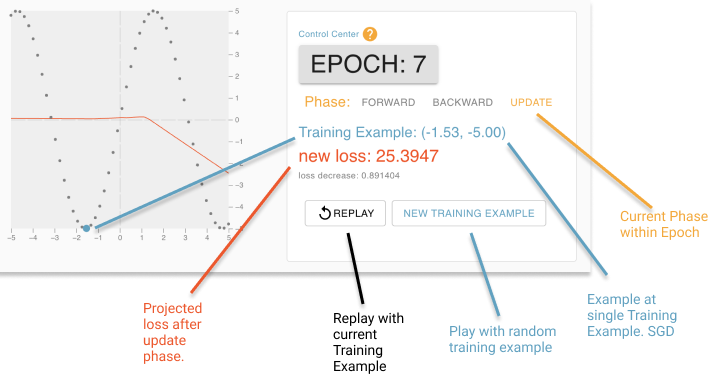
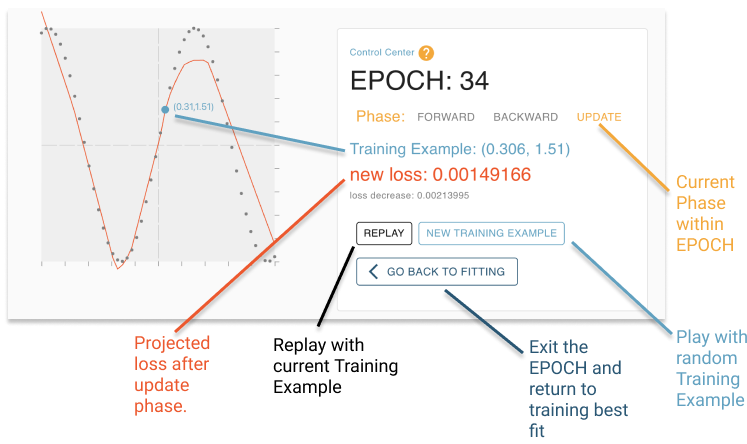
renamed to epoch tool for more accurate description and added all the changes to make the epoch animation more clear

diff --git a/src/components/implementations/mainComponent/BackpropTool.js b/src/components/implementations/mainComponent/BackpropTool.js
@@ -38,7 +38,6 @@ import {
 	Close,
 	ArrowBackIos,
 } from "@material-ui/icons";
-import controlGif from "./assets/controlcenter.gif";
 import singleSummarySVG from "./assets/singleSummary.svg";
 import epochModePNG from "./assets/epochMode.png";
 import keySVG from "./assets/key.svg";
@@ -676,8 +675,9 @@ class BackpropTool extends Component {
 							borderColor: isAnimating ? "lightgrey" : "black",
 						}}
 						variant="outlined"
+						size="small"
 					>
-						<Replay /> {"  "}REPLAY
+						REPLAY
 					</Button>
 
 					<Button
@@ -699,6 +699,7 @@ class BackpropTool extends Component {
 						}}
 						disabled={isAnimating}
 						variant="outlined"
+						size="small"
 					>
 						New Training Example
 					</Button>
@@ -844,8 +845,8 @@ class BackpropTool extends Component {
 								<Button
 									variant="outlined"
 									style={{
-										borderColor: "#ffa500",
-										color: "#ffa500",
+										color: "#175676",
+										borderColor: "#175676",
 									}}
 									onClick={async () => {
 										if (mode) {
@@ -887,7 +888,7 @@ class BackpropTool extends Component {
 									color: "#4BA3C3",
 								}}
 							>
-								{"Customization "}
+								{"Customization"}
 								<IconButton
 									size="small"
 									style={{ color: "orange" }}
@@ -1112,15 +1113,12 @@ class BackpropTool extends Component {
 					</DialogActions>
 
 					<DialogContent>
-						<img
-							src={controlGif}
-							alt="how to use control center"
-							width="100%"
-						/>
-
 						<Box display="flex" justifyContent="center">
 							<Box marginBottom={1}>
-								<Typography variant="h6">
+								<Typography variant="h5">
+									<b>Getting Stuck?</b>
+								</Typography>
+								<Typography variant="body1">
 									<ol>
 										<li>
 											Press{" "}
@@ -1130,40 +1128,58 @@ class BackpropTool extends Component {
 													color: "white",
 												}}
 												size="small"
+												disabled={true}
 											>
 												<PlayArrow fontSize="small" />
 											</Fab>{" "}
-											to start training
+											to start training and fitting the
+											curve to the data
 										</li>
 										<li>
 											Then press{" "}
 											<Button
-												variant="contained"
+												variant="outlined"
 												size="small"
+												style={{
+													borderColor: "#175676",
+													color: "#175676",
+												}}
+												disabled={true}
 											>
-												EPOCH
+												Click to animate epoch #
 											</Button>{" "}
-											to see backpropagation animation
+											to see forward propagation,{" "}
+											<b>backward propagation</b>, and
+											update animation at the epoch #.
+											While in this mode, you will have
+											access to the control center{" "}
+											<b>below</b>
+											<img
+												alt="epochMode"
+												src={epochModePNG}
+												width="100%"
+											></img>
 										</li>
 										<li>
-											To go back to fitting mode click{" "}
+											To go back to training and fitting
+											the curve to the data click{" "}
 											<Button
-												variant="contained"
+												variant="outlined"
 												size="small"
+												style={{
+													borderColor: "#175676",
+													color: "#175676",
+												}}
+												disabled={true}
 											>
-												EPOCH
+												<ArrowBackIos /> Go back to
+												fitting
 											</Button>{" "}
-											again
 										</li>
 									</ol>
 								</Typography>
 							</Box>
 						</Box>
-						<img
-							alt="epochMode"
-							src={epochModePNG}
-							width="100%"
-						></img>
 					</DialogContent>
 				</Dialog>
 				<Dialog
@@ -1187,8 +1203,14 @@ class BackpropTool extends Component {
 					<DialogContent>
 						<Box display="flex" justifyContent="center">
 							<Box marginBottom={5}>
-								<Typography variant="h4">Fixed</Typography>
+								<Typography variant="h5">
+									<b>What you can't and can change</b>
+								</Typography>
+								<br />
 								<Typography variant="h6">
+									<b>Fixed</b>
+								</Typography>
+								<Typography variant="body1">
 									By default, this Neural Network stays fixed
 									with
 									<ol>
@@ -1205,8 +1227,10 @@ class BackpropTool extends Component {
 									</ol>
 								</Typography>
 
-								<Typography variant="h4">Variable</Typography>
 								<Typography variant="h6">
+									<b>Variable</b>
+								</Typography>
+								<Typography variant="body1">
 									You have the ability to change
 									<ol>
 										<li>
@@ -1255,13 +1279,13 @@ class BackpropTool extends Component {
 						<Box display="flex" justifyContent="center">
 							<Box marginBottom={5}>
 								<Typography variant="h6">
-									Neural Network
+									<b>Neural Network</b>
 								</Typography>
 								<Typography variant="body1">
 									Each square is a neuron in the neural
-									network. To see the types of neurons check
-									the key located right above the neural
-									network.
+									network. To see what activation function the
+									neuron has, check the key located right
+									above the neural network.
 								</Typography>
 							</Box>
 						</Box>
@@ -1272,10 +1296,21 @@ class BackpropTool extends Component {
 						/>
 						<Box display="flex" justifyContent="center">
 							<Box marginBottom={5}>
+								<Typography variant="h6">
+									<b>Single EPOCH mode</b>
+								</Typography>
 								<Typography variant="body1">
 									During a single epoch after clicking{" "}
-									<Button size="small" variant="contained">
-										EPOCH
+									<Button
+										variant="outlined"
+										size="small"
+										style={{
+											borderColor: "#175676",
+											color: "#175676",
+										}}
+										disabled={true}
+									>
+										Click to animate epoch #
 									</Button>{" "}
 									, each arrow will represent the direction to
 									nudge the output to lower loss.
@@ -1312,7 +1347,7 @@ class BackpropTool extends Component {
 							</Box>
 							<Box>
 								<Typography variant="h2">
-									<b>Epoch Tool</b>
+									<b>EPOCH Tool</b>
 								</Typography>
 							</Box>
 						</Box>

diff --git a/src/components/implementations/article/Article.js b/src/components/implementations/article/Article.js
@@ -14,7 +14,8 @@ import {
 	Card,
 	CardContent,
 } from "@material-ui/core";
-import { Help, PlayArrow } from "@material-ui/icons";
+import { Help, PlayArrow, ArrowBackIos } from "@material-ui/icons";
+
 import { Nav } from "./Nav";
 import { Element } from "react-scroll";
 import AutoTool from "./AutoTool";
@@ -100,7 +101,7 @@ const Explanation = () => {
 				article there will be{" "}
 				{definiton(
 					<span>highlighted</span>,
-					<Typography varaint="h6">Example explanation</Typography>
+					<Typography variant="h6">Example explanation</Typography>
 				)}{" "}
 				words that will give extra explanation on mouse over.
 			</Typography>
@@ -586,7 +587,7 @@ const Explanation = () => {
 
 			<br />
 			<Typography variant="h4">
-				<b>Backprop Tool</b> Quick Start
+				<b>EPOCH Tool</b> Quick Start
 			</Typography>
 			<Typography variant="h6">
 				<ol>
@@ -598,6 +599,7 @@ const Explanation = () => {
 								color: "white",
 							}}
 							size="small"
+							disabled={true}
 						>
 							<PlayArrow fontSize="small" />
 						</Fab>{" "}
@@ -605,17 +607,33 @@ const Explanation = () => {
 					</li>
 					<li>
 						Then press{" "}
-						<Button variant="contained" size="small">
-							EPOCH
+						<Button
+							variant="outlined"
+							size="small"
+							style={{
+								borderColor: "#175676",
+								color: "#175676",
+							}}
+							disabled={true}
+						>
+							Click to animate epoch #
 						</Button>{" "}
-						to see backpropagation animation
+						to see forward propagation, <b>backward propagation</b>{" "}
+						and update animation at the epoch #
 					</li>
 					<li>
 						To go back to fitting mode click{" "}
-						<Button variant="contained" size="small">
-							EPOCH
+						<Button
+							variant="outlined"
+							size="small"
+							style={{
+								borderColor: "#175676",
+								color: "#175676",
+							}}
+							disabled={true}
+						>
+							<ArrowBackIos /> Go back to fitting
 						</Button>{" "}
-						again
 					</li>
 				</ol>
 			</Typography>
